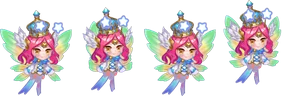
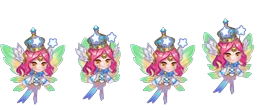
Xoá mảnh rời lỏng lẻo sau lưng pet, bỏ 4 con lỗi, chỉnh thân cao bằng nhau
* Xoá mảnh rời (connected-component filter trong spine_pose.py)

Vài bộ xương pet có phần trang trí (tai/đuôi nhiều khớp) chỉ được đặt đúng
chỗ nhờ animation 'attack', còn ở 'wait' vẫn giữ nguyên vị trí bind-pose gốc
— trôi lơ lửng cách thân vài pixel. Thêm drop_floaters(): đo liên thông trên
kênh alpha, mảnh nào nhỏ (dưới 15% khối chính) VÀ cách khối chính hơn 2,5px
thì xoá — mảnh lớn (cánh, đuôi dài) hoặc mảnh chạm/gần sát thân đều giữ
nguyên. Áp dụng chung trong compose() nên chạy cho mọi pet lẫn skin Pack4.

* Bỏ 4 con còn lỗi sau khi lọc: 0006, 0032, 0084, 0156

0156 (con "Sói Tuyết Có Cánh" — thật ra là rồng con, đã đổi tên trước khi
phát hiện mảnh rời không sửa dứt điểm được) cùng 3 con khác vẫn còn dư phía
sau lưng dù đã qua bộ lọc — cắt bỏ hẳn, giữ 7 con sạch. Còn: Gấu Mèo Lãng Tử,
Thỏ Bông Nhóc Tì, Mèo Máy Xanh, Nữ Xạ Thủ Bạch Thố, Tiên Nữ Cánh Hồng, Rồng
Băng Giáp Vàng, Rồng Bạc Cổ Đại.

* Chỉnh thân pet cao bằng nhau (pet_strips.py)

Trước co theo khung bao TOÀN THÂN nên con cánh dang rộng (rồng) bị thu nhỏ
lại, con gọn (mèo máy) lại to hơn hẳn. Giờ đo theo body_box() — dải cột giữa
40% bề ngang quanh trọng tâm, bỏ qua cánh/đuôi thò hai bên — giống kỹ thuật
đã dùng chuẩn hoá chiều cao skin Pack4 (p4_strips.py). Mọi pet co về thân cao
78px trong khung 110px, chân/bụng chạm chung một đáy.

Claude-Session: https://claude.ai/code/session_012s4JfXd6t7YNfBeGEkBxTh

diff --git a/src/data/pets.ts b/src/data/pets.ts
@@ -49,16 +49,13 @@ export const PERKS: Record<PetPerk, { rate: number; text: string; full: string }
 const PERK_ORDER: PetPerk[] = ['harvest', 'sell', 'guard', 'fish', 'grow'];
 
 // pack không kèm bảng tên gốc nên tự đặt tên + giá ruby theo độ hiếm nhìn bằng mắt
+// (đã bỏ 0006/0032/0084/0156 — ráp bị dư mảnh rời phía sau lưng không sửa nổi)
 const CURATED: { sid: string; name: string; price: number }[] = [
   { sid: '0003', name: 'Gấu Mèo Lãng Tử', price: 15 },
-  { sid: '0006', name: 'Cáo Con Tinh Nghịch', price: 15 },
   { sid: '0019', name: 'Thỏ Bông Nhóc Tì', price: 20 },
   { sid: '0044', name: 'Mèo Máy Xanh', price: 25 },
   { sid: '0056', name: 'Nữ Xạ Thủ Bạch Thố', price: 30 },
   { sid: '0065', name: 'Tiên Nữ Cánh Hồng', price: 30 },
-  { sid: '0156', name: 'Sói Tuyết Có Cánh', price: 35 },
-  { sid: '0032', name: 'Pháp Sư Bóng Đêm', price: 45 },
-  { sid: '0084', name: 'Rồng Ngọc Lam', price: 50 },
   { sid: '0108', name: 'Rồng Băng Giáp Vàng', price: 55 },
   { sid: '0009', name: 'Rồng Bạc Cổ Đại', price: 60 }
 ];

diff --git a/scripts/spine_pose.py b/scripts/spine_pose.py
@@ -8,6 +8,8 @@ là ra hình nhân vật đứng — không cần chạy runtime Spine.
 """
 import json, math, os, sys
 from PIL import Image
+import numpy as np
+from scipy import ndimage
 
 
 
@@ -368,6 +370,46 @@ def draw_mesh(canvas, im, reg, pts, PAD):
         canvas.paste(piece, (x0, y0), mask)
 
 
+def drop_floaters(canvas, keep_ratio=0.15, gap_px=2.5):
+    """Xoá mảnh nhỏ rời khỏi khối chính (đo bằng liên thông trên kênh alpha).
+
+    Vài bộ xương (đuôi/tai nhiều khớp) có phần trang trí chỉ nằm đúng chỗ nhờ
+    animation khác (vd 'attack') còn ở 'wait' vẫn giữ vị trí bind-pose gốc —
+    trôi lơ lửng cách hẳn thân chính vài pixel. Mảnh nào nhỏ (< keep_ratio lần
+    khối lớn nhất) VÀ cách khối lớn nhất hơn gap_px thì coi là lỗi, xoá đi.
+    Mảnh lớn (cánh, đuôi dài...) hoặc mảnh chạm/gần sát thân đều được giữ.
+    """
+    bbox = canvas.getbbox()
+    if not bbox:
+        return canvas
+    crop = canvas.crop(bbox)
+    arr = np.array(crop)
+    mask = arr[:, :, 3] > 20
+    labeled, n = ndimage.label(mask, structure=np.ones((3, 3), dtype=int))
+    if n <= 1:
+        return canvas
+    sizes = ndimage.sum(mask, labeled, index=range(1, n + 1))
+    main_label = int(np.argmax(sizes)) + 1
+    main_mask = labeled == main_label
+    main_size = sizes[main_label - 1]
+    dist_to_main = ndimage.distance_transform_edt(~main_mask)
+    changed = False
+    for lbl in range(1, n + 1):
+        if lbl == main_label:
+            continue
+        comp_mask = labeled == lbl
+        ratio = sizes[lbl - 1] / main_size
+        gap = float(dist_to_main[comp_mask].min())
+        if ratio < keep_ratio and gap > gap_px:
+            arr[comp_mask, 3] = 0
+            changed = True
+    if not changed:
+        return canvas
+    out = Image.new('RGBA', canvas.size, (0, 0, 0, 0))
+    out.paste(Image.fromarray(arr, 'RGBA'), (bbox[0], bbox[1]))
+    return out
+
+
 def compose(folder, name, max_h=None, anim='holdon', at=None, pad_box=None):
     data = json.load(open(os.path.join(folder, name + '.json'), encoding='utf-8'))
     atlas = load_atlas(folder, name)
@@ -423,6 +465,7 @@ def compose(folder, name, max_h=None, anim='holdon', at=None, pad_box=None):
             im = im.rotate(rot, resample=Image.BICUBIC, expand=True)
         canvas.alpha_composite(im, (int(round(PAD + wx - im.width / 2)),
                                     int(round(PAD - wy - im.height / 2))))
+    canvas = drop_floaters(canvas)
     bb = pad_box or canvas.getbbox()
     if bb:
         canvas = canvas.crop(bb)

diff --git a/scripts/pet_strips.py b/scripts/pet_strips.py
@@ -11,8 +11,32 @@ sys.path.insert(0, os.path.dirname(os.path.abspath(__file__)))
 from spine_pose import compose, anim_len
 
 FRAMES = 4
-HEIGHT = 96
+HEIGHT = 110        # chiều cao khung ảnh
+BODY = 78            # chiều cao THÂN thú trong khung — mọi con cao bằng nhau
+FOOT_PAD = 5         # chừa dưới chân vài pixel
 BIG = (0, 0, 1800, 1800)   # cả khung vẽ, cắt nhỏ hơn là thú bị xén mất
+
+
+def body_box(im):
+    """Khung của phần THÂN, bỏ qua cánh/đuôi dài thò ra hai bên.
+
+    Chỉ soi dải cột giữa (40% bề ngang quanh trọng tâm) nên con nào cánh dang
+    rộng hay đuôi dài cũng không kéo dài khung — đo được thân thú thật, giống
+    cách p4_strips.py chuẩn hoá chiều cao skin.
+    """
+    a = im.split()[3]
+    w, h = im.size
+    px = a.load()
+    cols = [x for x in range(w) if any(px[x, y] > 60 for y in range(0, h, 2))]
+    if not cols:
+        return im.getbbox()
+    cx = sum(cols) / len(cols)
+    half = max(6, int(w * 0.20))
+    x0, x1 = max(0, int(cx - half)), min(w, int(cx + half))
+    rows = [y for y in range(h) if any(px[x, y] > 60 for x in range(x0, x1))]
+    if not rows:
+        return im.getbbox()
+    return (x0, rows[0], x1, rows[-1] + 1)
 
 
 def strip(folder, name, frames=FRAMES, height=HEIGHT, anim='wait'):
@@ -28,11 +52,22 @@ def strip(folder, name, frames=FRAMES, height=HEIGHT, anim='wait'):
         raise ValueError('rỗng')
     x0 = min(b[0] for b in boxes); y0 = min(b[1] for b in boxes)
     x1 = max(b[2] for b in boxes); y1 = max(b[3] for b in boxes)
-    k = height / (y1 - y0)
-    w = max(1, round((x1 - x0) * k))
+
+    # tỉ lệ tính theo chiều cao THÂN của khung đầu -> mọi con cao bằng nhau
+    bb = body_box(raws[0])
+    k = BODY / max(1, bb[3] - bb[1])
+    foot = bb[3]                     # đáy thân (chỗ chạm đất)
+    cx = (bb[0] + bb[2]) / 2         # trục dọc thân
+
+    full_w = max(x1 - x0, 1)
+    w = max(1, round(full_w * k))
     out = Image.new('RGBA', (w * frames, height))
     for i, im in enumerate(raws):
-        out.paste(im.crop((x0, y0, x1, y1)).resize((w, height), Image.LANCZOS), (i * w, 0))
+        sc = im.resize((max(1, round(im.width * k)), max(1, round(im.height * k))), Image.LANCZOS)
+        # chân chạm đáy khung, thân nằm giữa theo chiều ngang
+        ox = round(w / 2 - cx * k)
+        oy = round(height - FOOT_PAD - foot * k)
+        out.paste(sc, (i * w + ox, oy), sc)
     return out, w
 
 
